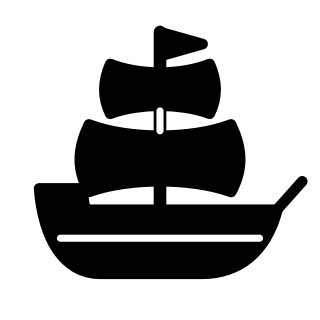
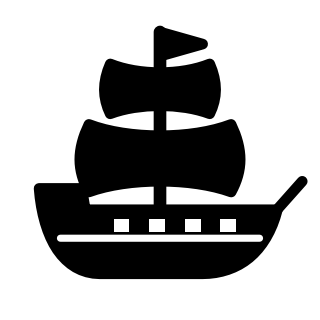
Galleon: windows back; the black one's mast all black

diff --git a/art/source/piece_options/make_final_princess_galleon_catapult.py b/art/source/piece_options/make_final_princess_galleon_catapult.py
@@ -1,7 +1,7 @@
 """Final Princess (round 16 crown_five_on_base without the dots on the crown;
 the black one gets white lines like the white one's black lines; the crown made
-taller, Mac Oct 2026), Galleon (round 15 galleon_square without the gun ports;
-the black one's mast black over the sails and white between them) and Catapult
+taller, Mac Oct 2026), Galleon (round 15 galleon_square; the black one's mast
+all black) and Catapult
 (round 16 catapult_low, wheels without the inner circles), white and black,
 written to ../pieces/.
 
@@ -46,13 +46,11 @@ def princess(team):
 
 
 def galleon(team):
-    """Round 15's square-sailed galleon without the four gun ports (Mac); on the
-    black one the mast is black over the sails and white between them."""
+    """Round 15's square-sailed galleon with its gun ports; on the black one the
+    mast is all black, with no white lines on it (Mac, Oct 2026)."""
     out = r15.galleon_square(team)
-    out = re.sub(r'<rect x="[0-9.]+" y="30.8"[^>]*/>', "", out)
     if team == "black":
         out = out.replace(r15.detail("M 22.5,10.5 L 22.5,14 M 22.5,19.5 L 22.5,24.8", "#fff", 1), "")
-        out += r15.detail("M 22.5,15.6 L 22.5,18.4", "#fff", 1)
     return out
 
 

diff --git a/CLAUDE.md b/CLAUDE.md
@@ -139,7 +139,7 @@ Built on a local branch until Mac approved them all; merged into main and releas
 * Special rules: Parapet (PA, 3, Castle; sideways slide + diagonal step; `blocks_jumps`: the OPPONENT's pieces can't leap over it (Mac, Oct 2026: its own side's can; `MoveGenerator.stops_jumps`), Knights count as 2 straight then 1, and it's no screen for the opponent's Cannons), Vampire (V, 4; sideways/back slides, diagonal forward step; `shield_on_capture`, FEN `+`, small blue shield drawn on its square), Squire (SQ, 3; 2 straight or 1 diagonal; `protects ["knight"]`: Knights it could reach can't be captured), Jester (J, 4; moves 2, captures 1, any direction; `decoy`: takes the hit for a non-pawn piece it could reach, swapping places).
 * Abilities (once per game, uses the turn): Ghost (G, 3, diagonal step or 1 forward; HAUNT, pale blue -> icy white: once captured, on a later turn it comes back on ANY empty square; button shows with nothing selected; no rings, the captured Ghost glows in the captures row (`CapturedRow.haunting`) while choosing; can give check). Bard (BD, 3.5, up to 4 diagonally; SONG_OF_SLUMBER, gold -> amber: an enemy piece it could capture (not a king) can't move on the next turn; `GameState.frozen_piece()` = last move's `frozen`; "Zz" on it; a sleeping piece doesn't give check (lifted off the board in the legality check), so singing to a checking piece answers check). Werewolf (WW, 3, as the Ghost; FULL_MOON, moon white -> silver: becomes `transforms_into` = `res://data/pieces/forms/werewolf_wolf.tres` (WF; 1 sideways or back, up to 2 forward or diagonally forward, blocked) for good; `Piece.base_def` / `starting_def()` so Raise Dead brings back a Werewolf; the piece card has an "After Full Moon" / "Before Full Moon" button (`PieceCard.turn_over`)).
 * Sounds: LULLABY and HAUNT made in code; HOWL = `res://audio/sfx/wolf_howl.wav`, cut from a public-domain U.S. Fish and Wildlife Service recording (Wikimedia Commons "Wolf howls.ogg", licence note beside it). `GameSounds.recording()` loads .ogg or .wav.
-* Art tweaks (Mac, Oct 2026): Archer drawn at 92%; Assassin daggers without the blade line, thicker grips; Cannon with the Chariot's wheel (`make_final_cannon.py`); Catapult wheels without inner circles; Galleon without gun ports, the black one's mast black over the sails and white between; Ghost and Vampire lines 1.5/1.4 thick; Jester on the Cburnett king's base; Rogue's hood 3 shorter; the Man's coif (now drawn in `make_final_ghost_bard_werewolf.py`, shared with the human Werewolf): white without the line round the opening (seam down to it), black with a thicker white line there and black ties; wolf's head 10% bigger and back bowed out; Princess's crown 15% taller.
+* Art tweaks (Mac, Oct 2026): Archer drawn at 92%; Assassin daggers without the blade line, thicker grips; Cannon with the Chariot's wheel (`make_final_cannon.py`); Catapult wheels without inner circles; Galleon with its gun ports, the black one's mast all black (no white lines); Ghost and Vampire lines 1.5/1.4 thick; Jester on the Cburnett king's base; Rogue's hood 3 shorter; the Man's coif (now drawn in `make_final_ghost_bard_werewolf.py`, shared with the human Werewolf): white without the line round the opening (seam down to it), black with a thicker white line there and black ties; wolf's head 10% bigger and back bowed out; Princess's crown 15% taller.
 * Art (final, `art/source/piece_options/make_final_*.py`): Princess crown, Galleon, Catapult, Assassin daggers, Parapet wall, Vampire bat, Squire saddle, Jester cap, Ghost (bedsheet ghost with sad jellybean eyes dented on the outside, no brows), Bard (lyre, evenly spaced strings), Werewolf (the Man's coif with wolf ears and three fur tufts a side), wolf (round 22 maned wolf keeping spikes 2, 4 and 6 of its six, no ear lines, top tooth only). All in `make_final_ghost_bard_werewolf.py` for the last batch.
 
 ## Open questions for Mac (noted, to decide later)
